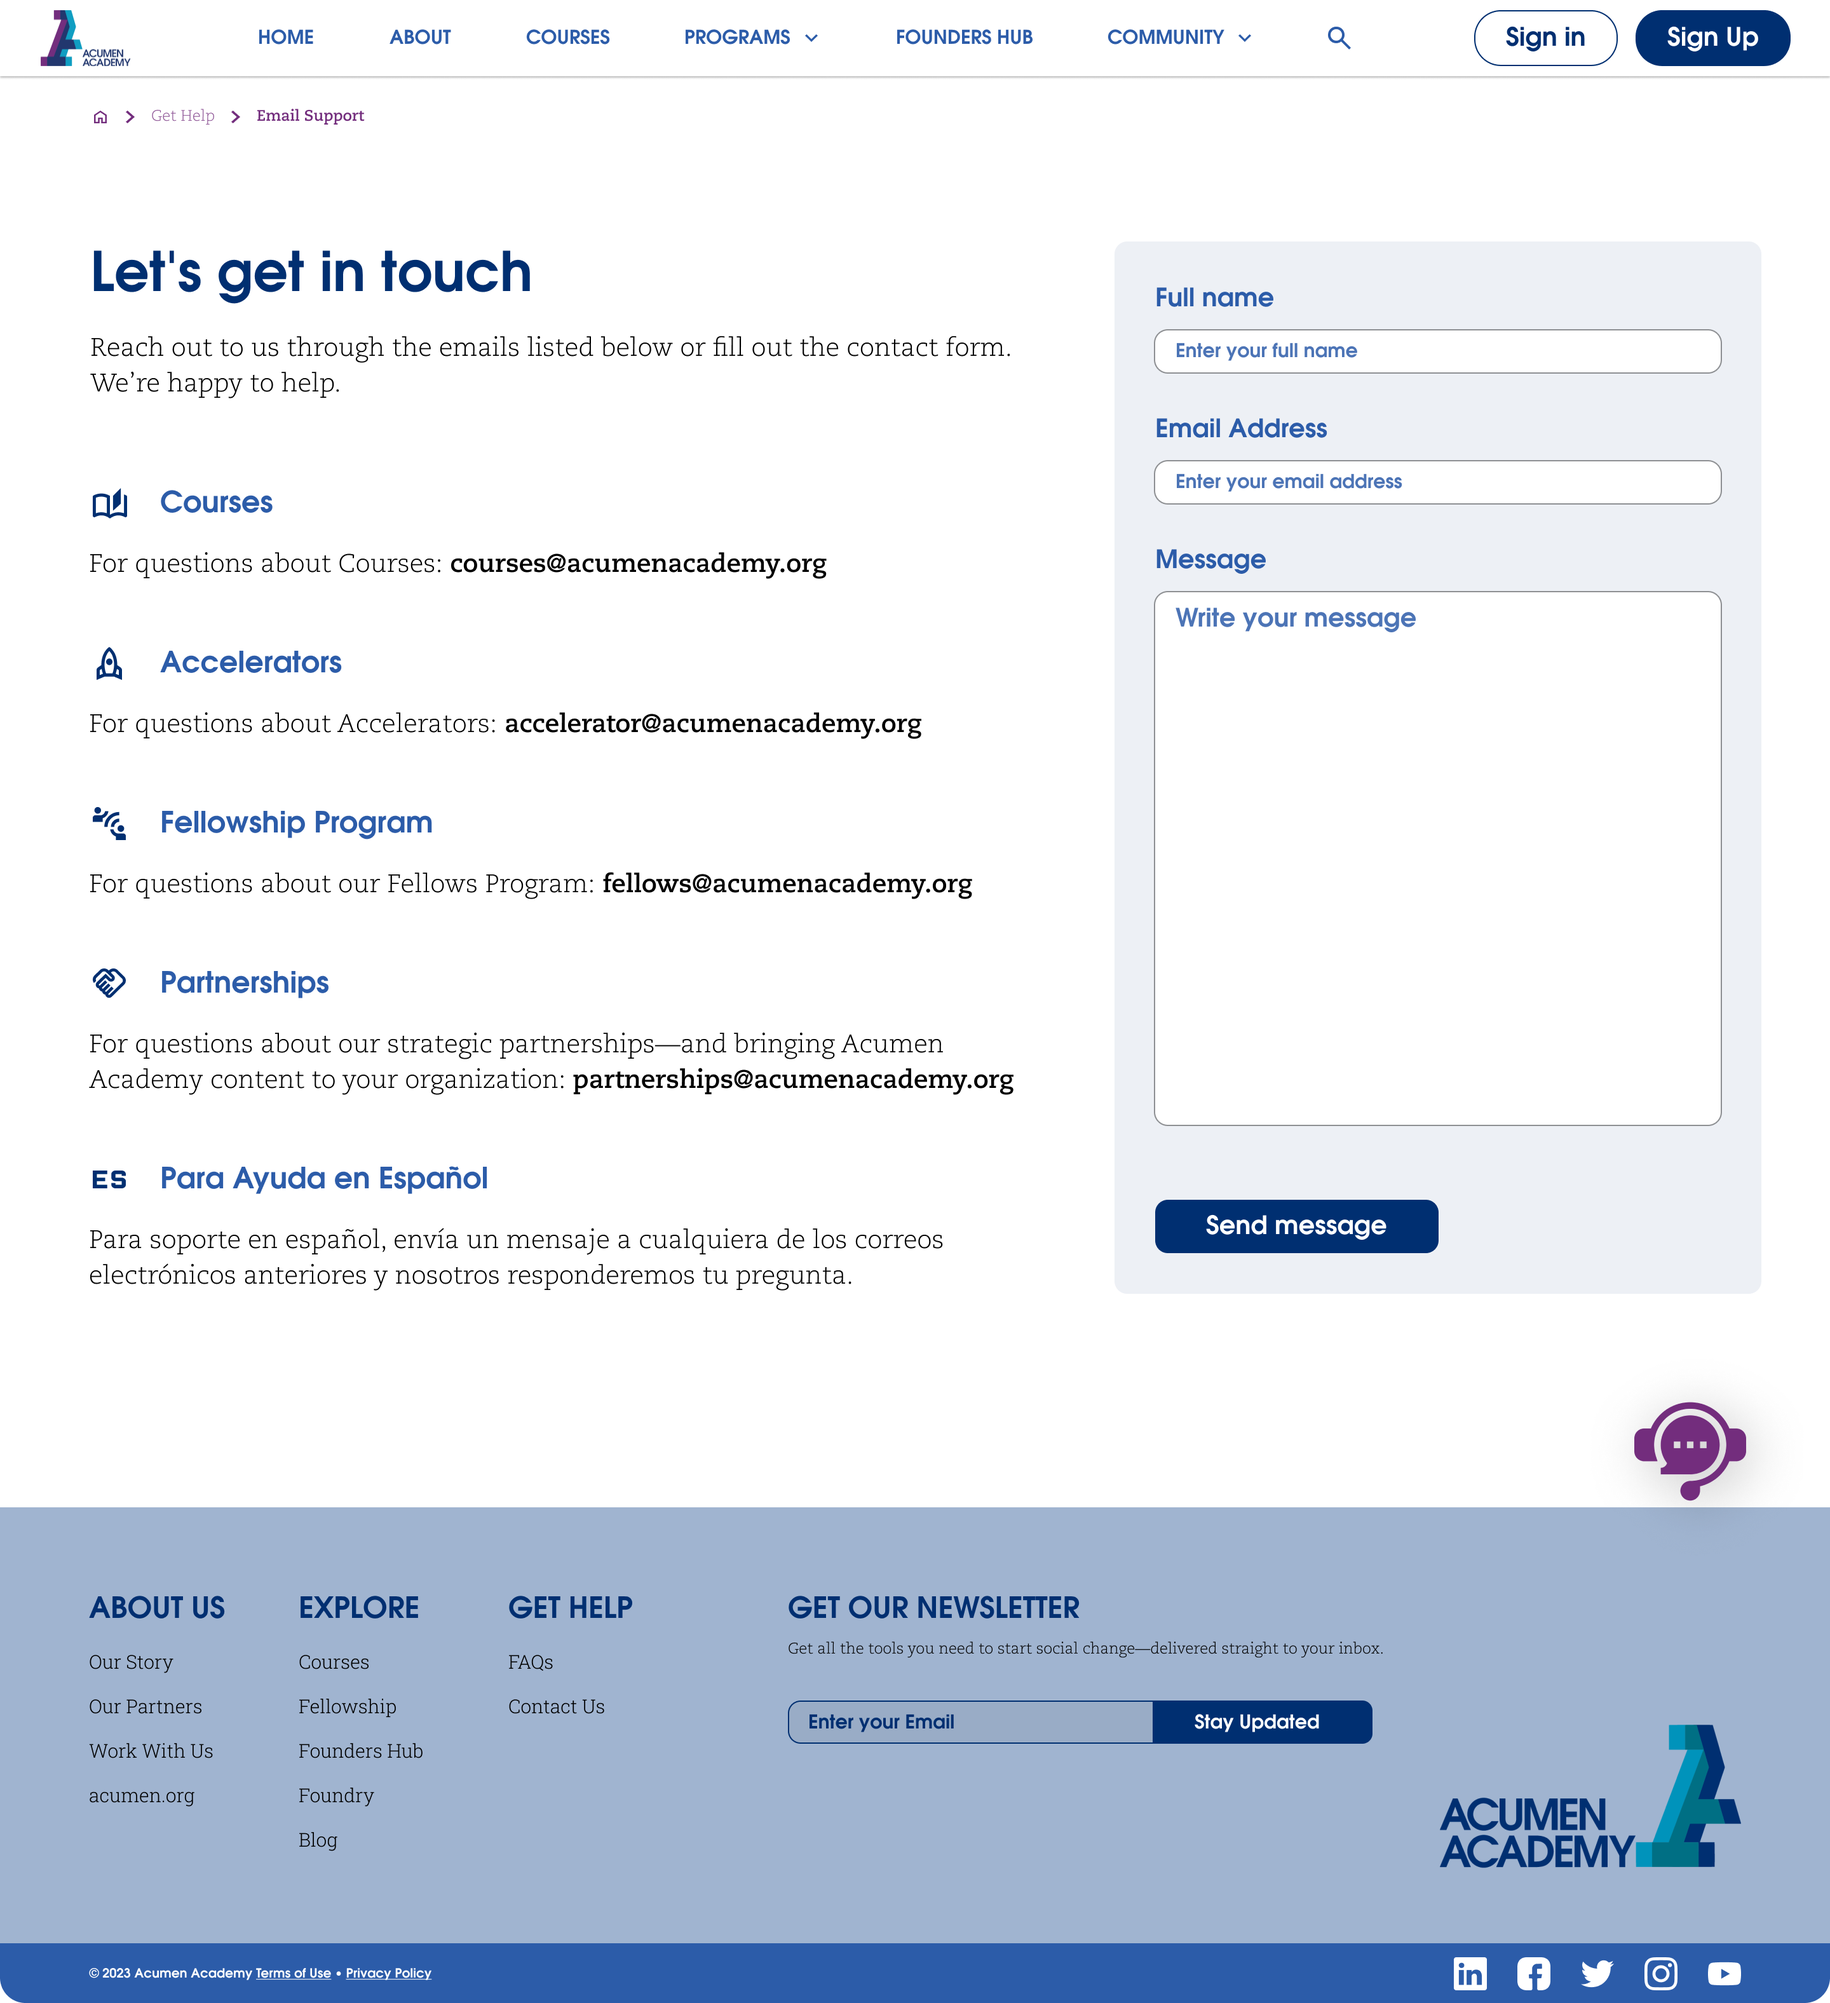
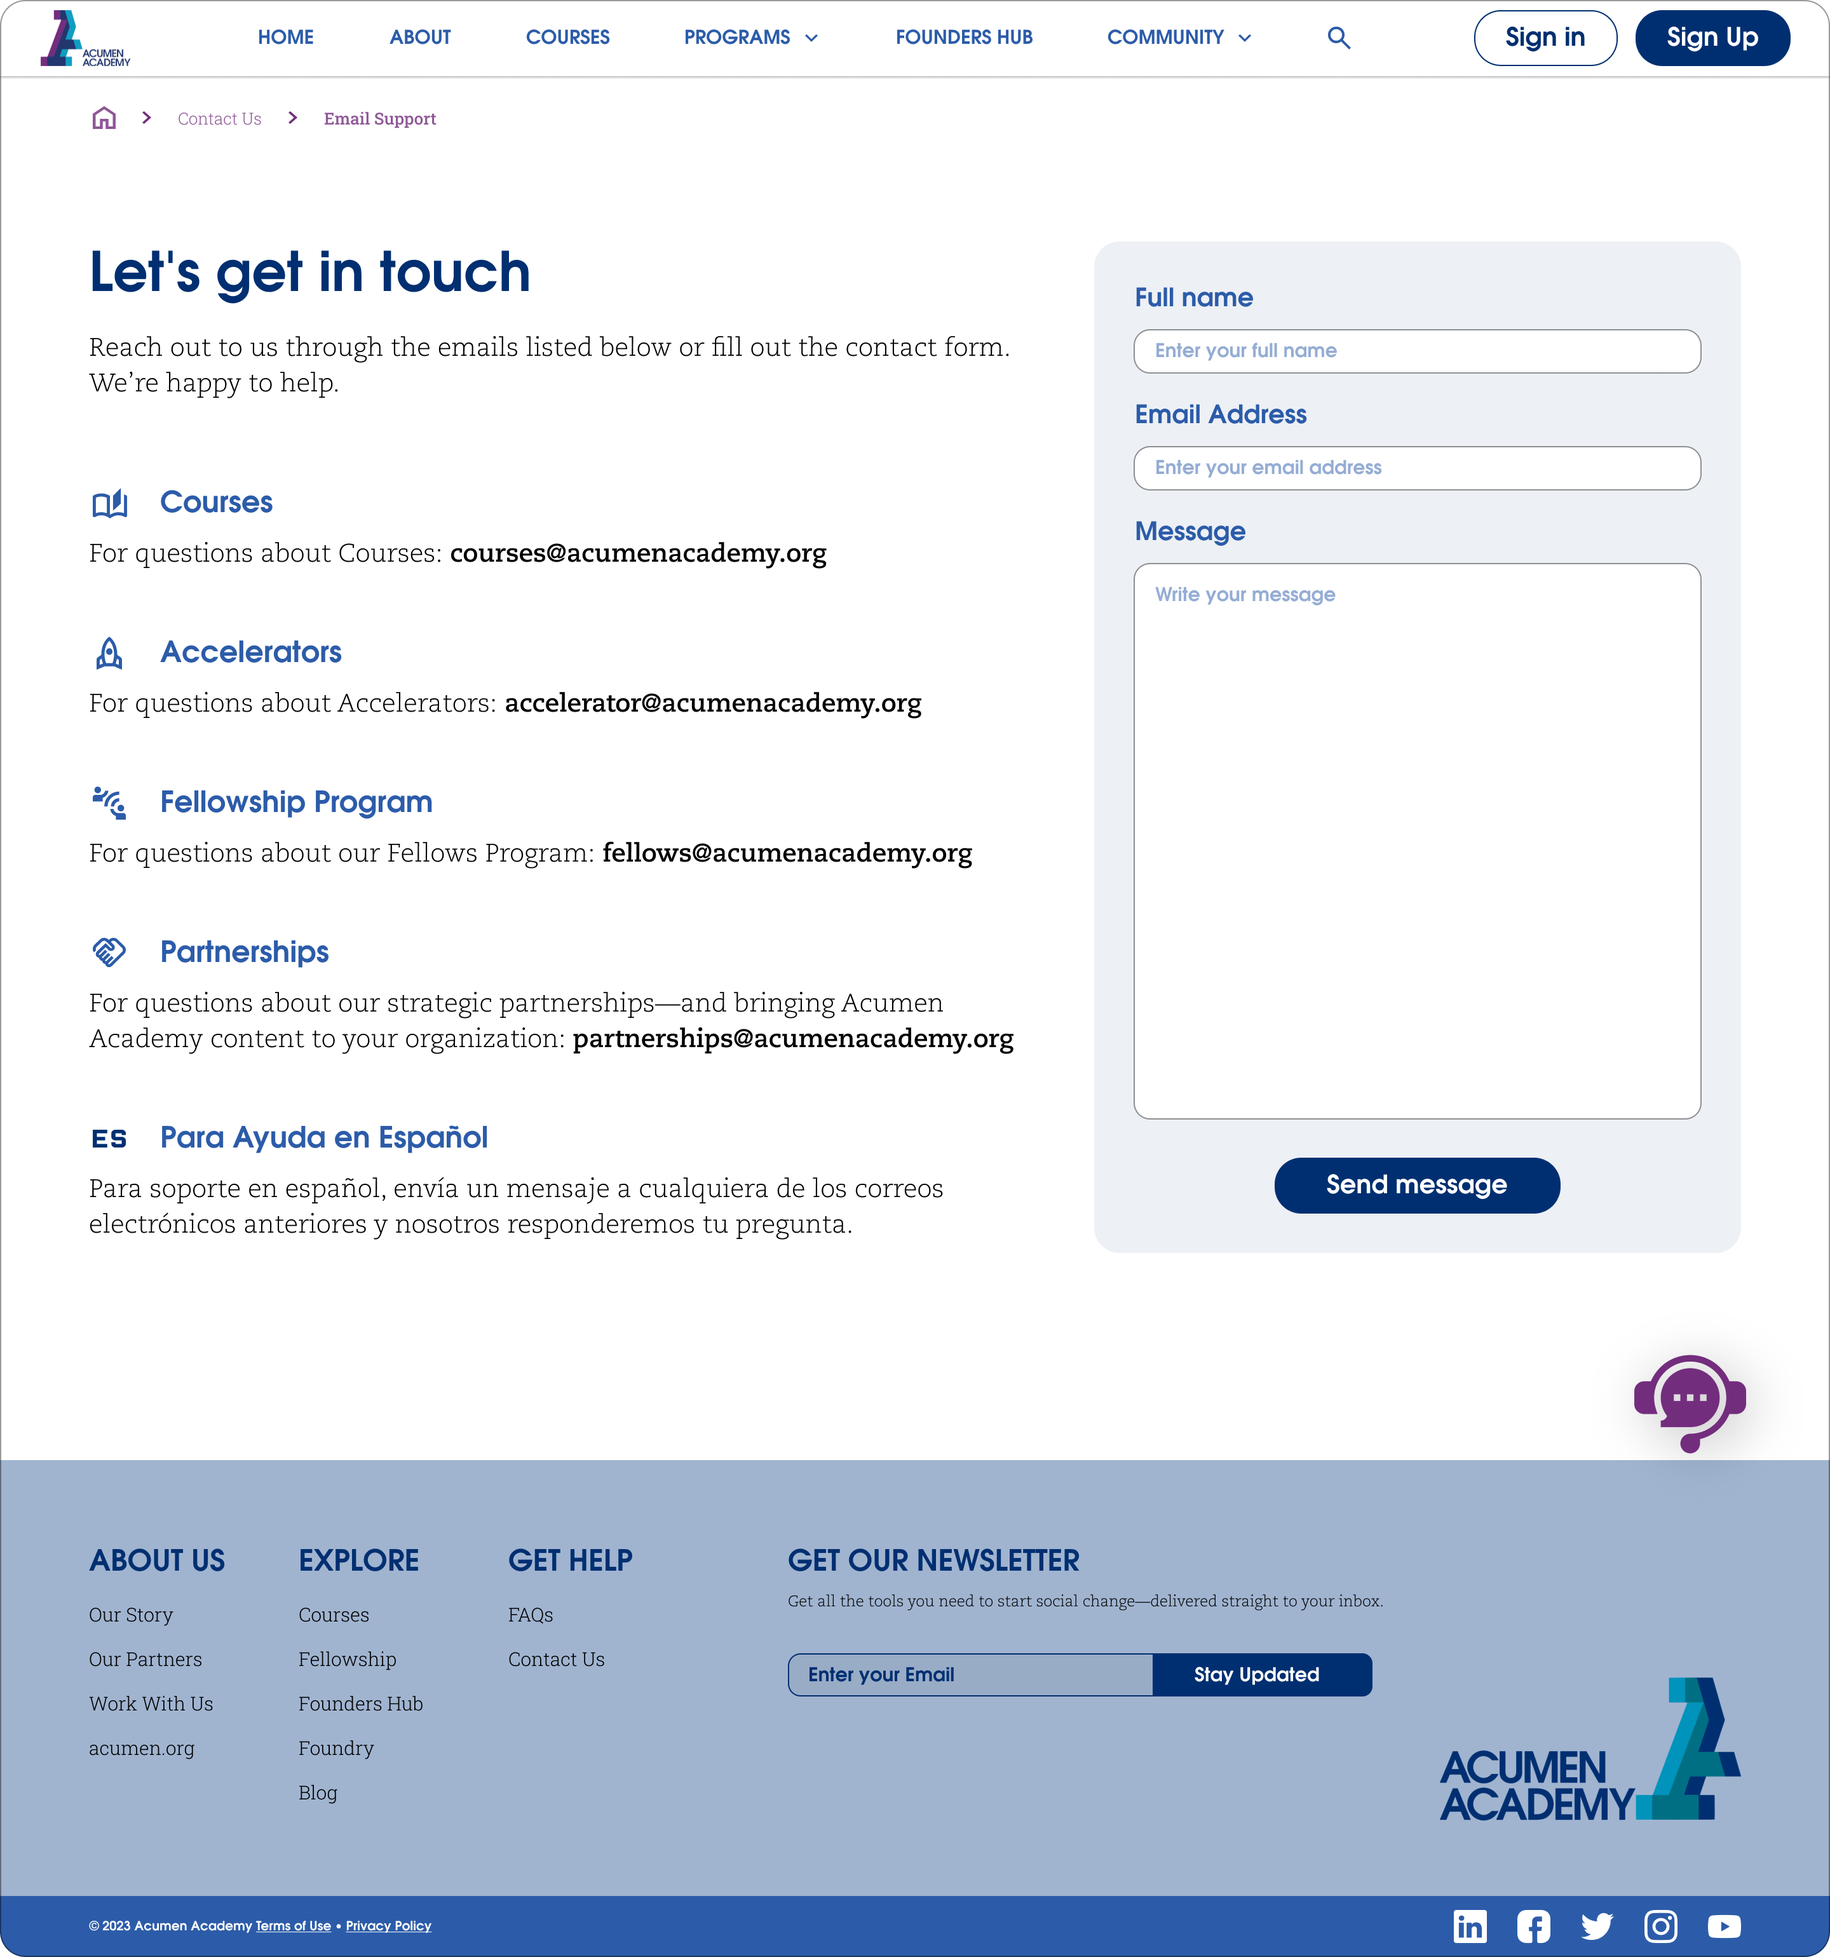
Reformulate Contact Us card descriptions and publish updated Contact Us UI image (v=2.0)

diff --git a/acumen-academy-redesign.html b/acumen-academy-redesign.html
@@ -22,7 +22,7 @@
   <link rel="stylesheet" href="assets/css/homepage.css">
   
   <!-- Case Study CSS -->
-  <link rel="stylesheet" href="assets/css/acumen-academy-redesign.css?v=33.0">
+  <link rel="stylesheet" href="assets/css/acumen-academy-redesign.css?v=34.0">
 </head>
 
 <body>
@@ -912,7 +912,7 @@
                           <img src="assets/img/acumen-academy-redesign/contact_us-asis.png?v=1.0" alt="Pagina Contact Us Storica As-Is" class="comparison-card-img">
                         </div>
                         <div class="comparison-card-desc">
-                          <strong>Criticità:</strong> Supporto clienti frammentato tra canali esterni sconnessi, assenza di form di contatto rapido e FAQ prive di organizzazione per argomenti.
+                          <strong>Criticità:</strong> Supporto clienti limitato a soli due canali disconnessi (FAQs e pagina Contact Us), senza una via di assistenza immediata o diretta per l'utente.
                         </div>
                       </div>
                       <div class="comparison-card-item">
@@ -924,7 +924,7 @@
                           <img src="assets/img/acumen-academy-redesign/contact_us-wireframe.png?v=1.0" alt="Pagina Contact Us Wireframe Mid-Fi" class="comparison-card-img">
                         </div>
                         <div class="comparison-card-desc">
-                          <strong>Struttura:</strong> Testata informativa pulita e triplice opzione di supporto: form Email Support, overlay Livechat centrato e Help Center organizzato.
+                          <strong>Struttura:</strong> Introduzione di tre canali di supporto (FAQs, Contact Us e Livechat), con la pagina Contact Us arricchita da un modulo di contatto veloce da compilare accanto all'elenco delle email.
                         </div>
                       </div>
                       <div class="comparison-card-item">
@@ -933,10 +933,10 @@
                           <button type="button" class="btn-card-zoom" onclick="openGalleryModal(2, 'contact-stages')" aria-label="Ingrandisci">🔍</button>
                         </div>
                         <div class="comparison-img-wrapper" onclick="openGalleryModal(2, 'contact-stages')" title="Clicca per ingrandire">
-                          <img src="assets/img/acumen-academy-redesign/contact_us-ui.png?v=1.0" alt="Pagina Contact Us UI Finale To-Be" class="comparison-card-img">
+                          <img src="assets/img/acumen-academy-redesign/contact_us-ui.png?v=2.0" alt="Pagina Contact Us UI Finale To-Be" class="comparison-card-img">
                         </div>
                         <div class="comparison-card-desc">
-                          <strong>Risultato:</strong> Hub di supporto unificato con form di contatto intuitivo, widget live chat accessibile e sezione FAQ espandibile per risposte immediate.
+                          <strong>Risultato:</strong> Layout chiaro e rassicurante con gerarchia visiva ottimizzata per ridurre i tempi di risposta e guidare le persone al canale di assistenza più adatto alle proprie esigenze.
                         </div>
                       </div>
                     </div>
@@ -1496,7 +1496,7 @@
         title: 'Wireframe Media-Fedeltà (Mid-Fi) — Pagina Contact Us'
       },
       {
-        src: 'assets/img/acumen-academy-redesign/contact_us-ui.png?v=1.0',
+        src: 'assets/img/acumen-academy-redesign/contact_us-ui.png?v=2.0',
         title: 'UI Finale (To-Be) — Pagina Contact Us'
       }
     ];
